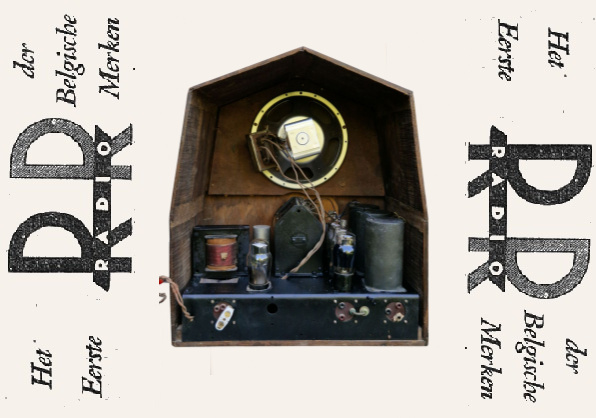
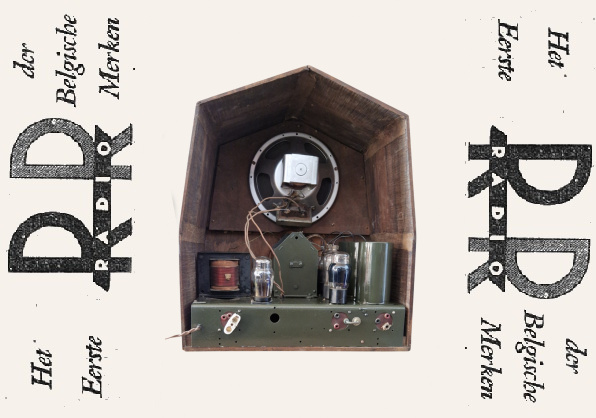
up

Changed region(s): [[0.2416, 0.0933, 0.7248, 0.8397], [0.2114, 0.622, 0.2416, 0.6531]]

diff --git a/RR radio 335 super ecran.html b/RR radio 335 super ecran.html
@@ -180,6 +180,48 @@ document.addEventListener('cut',function(e){e.preventDefault();e.stopPropagation
             </div>
             </div>
           </div>  
+                             <div class="col-lg-4 col-md-6 portfolio-item filter-app wow fadeInUp">
+            <div class="portfolio-wrap">
+              <figure>
+                <img src="img/portfolio/rr 335 super ecranjkl.jpg" class="img-fluid" alt="">
+                <a href="img/portfolio/rr 335 super ecranj.jpg" data-lightbox="portfolio" data-title="R.R. RADIO 335 SUPER ECRAN" class="link-preview" title="grote foto"><i class="ion ion-eye"></i></a>
+     
+              </figure>
+
+              <div class="portfolio-info">
+             <h4>Chassis</h4>
+                <p>Gerestaureerd</p>
+            </div>
+            </div>
+          </div>  
+                               <div class="col-lg-4 col-md-6 portfolio-item filter-app wow fadeInUp">
+            <div class="portfolio-wrap">
+              <figure>
+                <img src="img/portfolio/rr 335 super ecrankkl.jpg" class="img-fluid" alt="">
+                <a href="img/portfolio/rr 335 super ecrank.jpg" data-lightbox="portfolio" data-title="R.R. RADIO 335 SUPER ECRAN" class="link-preview" title="grote foto"><i class="ion ion-eye"></i></a>
+     
+              </figure>
+
+              <div class="portfolio-info">
+             <h4>Chassis</h4>
+                <p>Gerestaureerd</p>
+            </div>
+            </div>
+          </div> 
+                              <div class="col-lg-4 col-md-6 portfolio-item filter-app wow fadeInUp">
+            <div class="portfolio-wrap">
+              <figure>
+                <img src="img/portfolio/rr 335 super ecranlkl.jpg" class="img-fluid" alt="">
+                <a href="img/portfolio/rr 335 super ecranl.jpg" data-lightbox="portfolio" data-title="R.R. RADIO 335 SUPER ECRAN" class="link-preview" title="grote foto"><i class="ion ion-eye"></i></a>
+     
+              </figure>
+
+              <div class="portfolio-info">
+             <h4>Chassis</h4>
+                <p>Gerestaureerd</p>
+            </div>
+            </div>
+          </div>            
           <div class="col-lg-4 col-md-6 portfolio-item filter-app wow fadeInUp" >
             <div class="portfolio-wrap">
               <figure>
@@ -189,8 +231,8 @@ document.addEventListener('cut',function(e){e.preventDefault();e.stopPropagation
               </figure>
 
               <div class="portfolio-info">
-             <h4></h4>
-                <p>chassis ongerestaureerd</p>         
+             <h4>Chassis</h4>
+                <p>gerestaureerd</p>         
                       </div>
             </div>
           </div>
@@ -203,9 +245,9 @@ document.addEventListener('cut',function(e){e.preventDefault();e.stopPropagation
               </figure>
 
               <div class="portfolio-info">
-             <h4></h4>
-                <p>chassis ongereviseerd</p>         
-                      </div>
+             <h4>Chassis</h4>
+                <p>ongereviseerd</p>         
+                    
             </div>
           </div> 
          </div>
